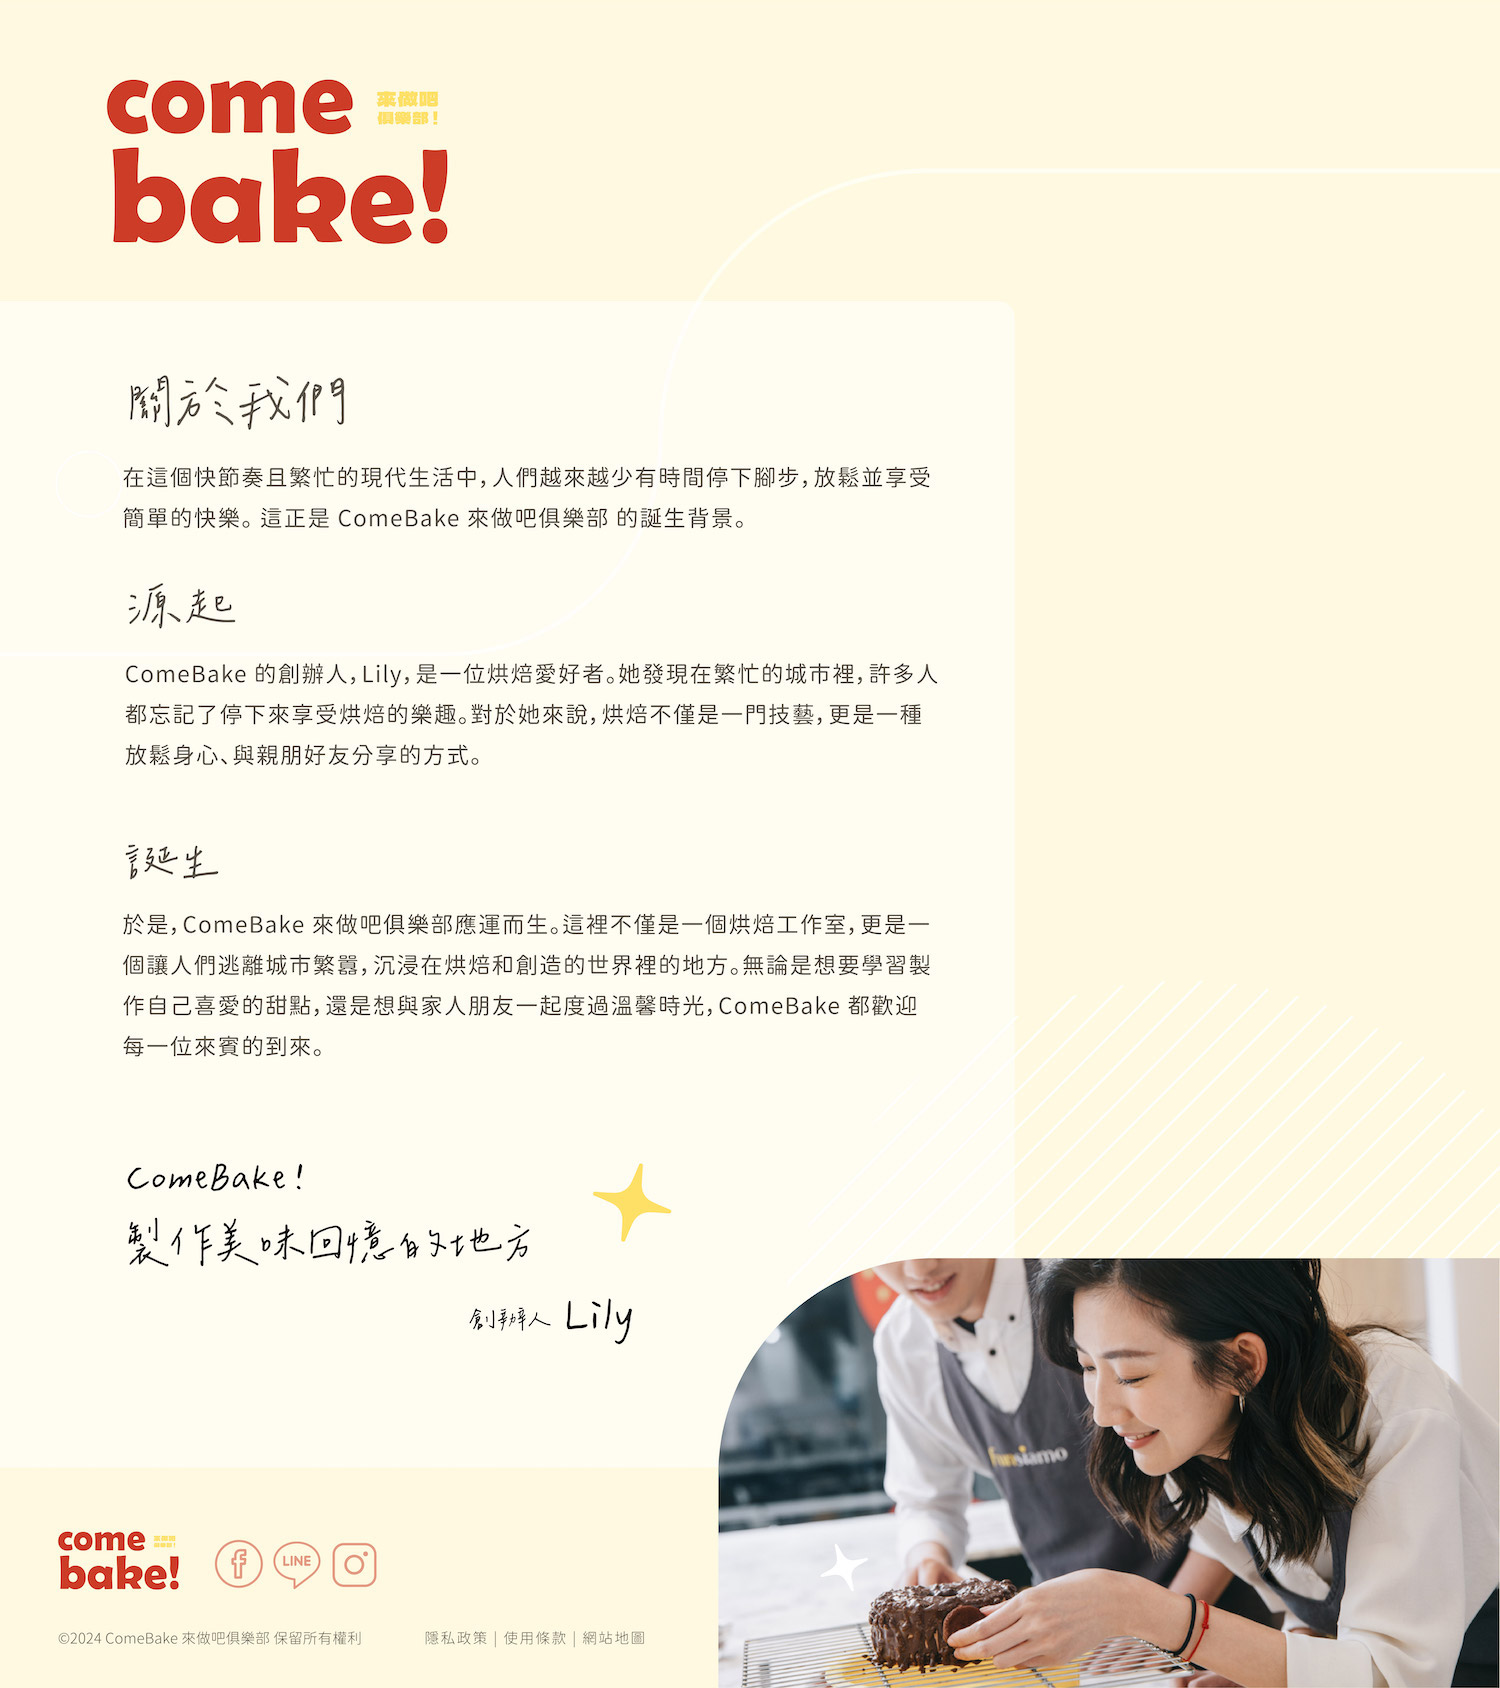
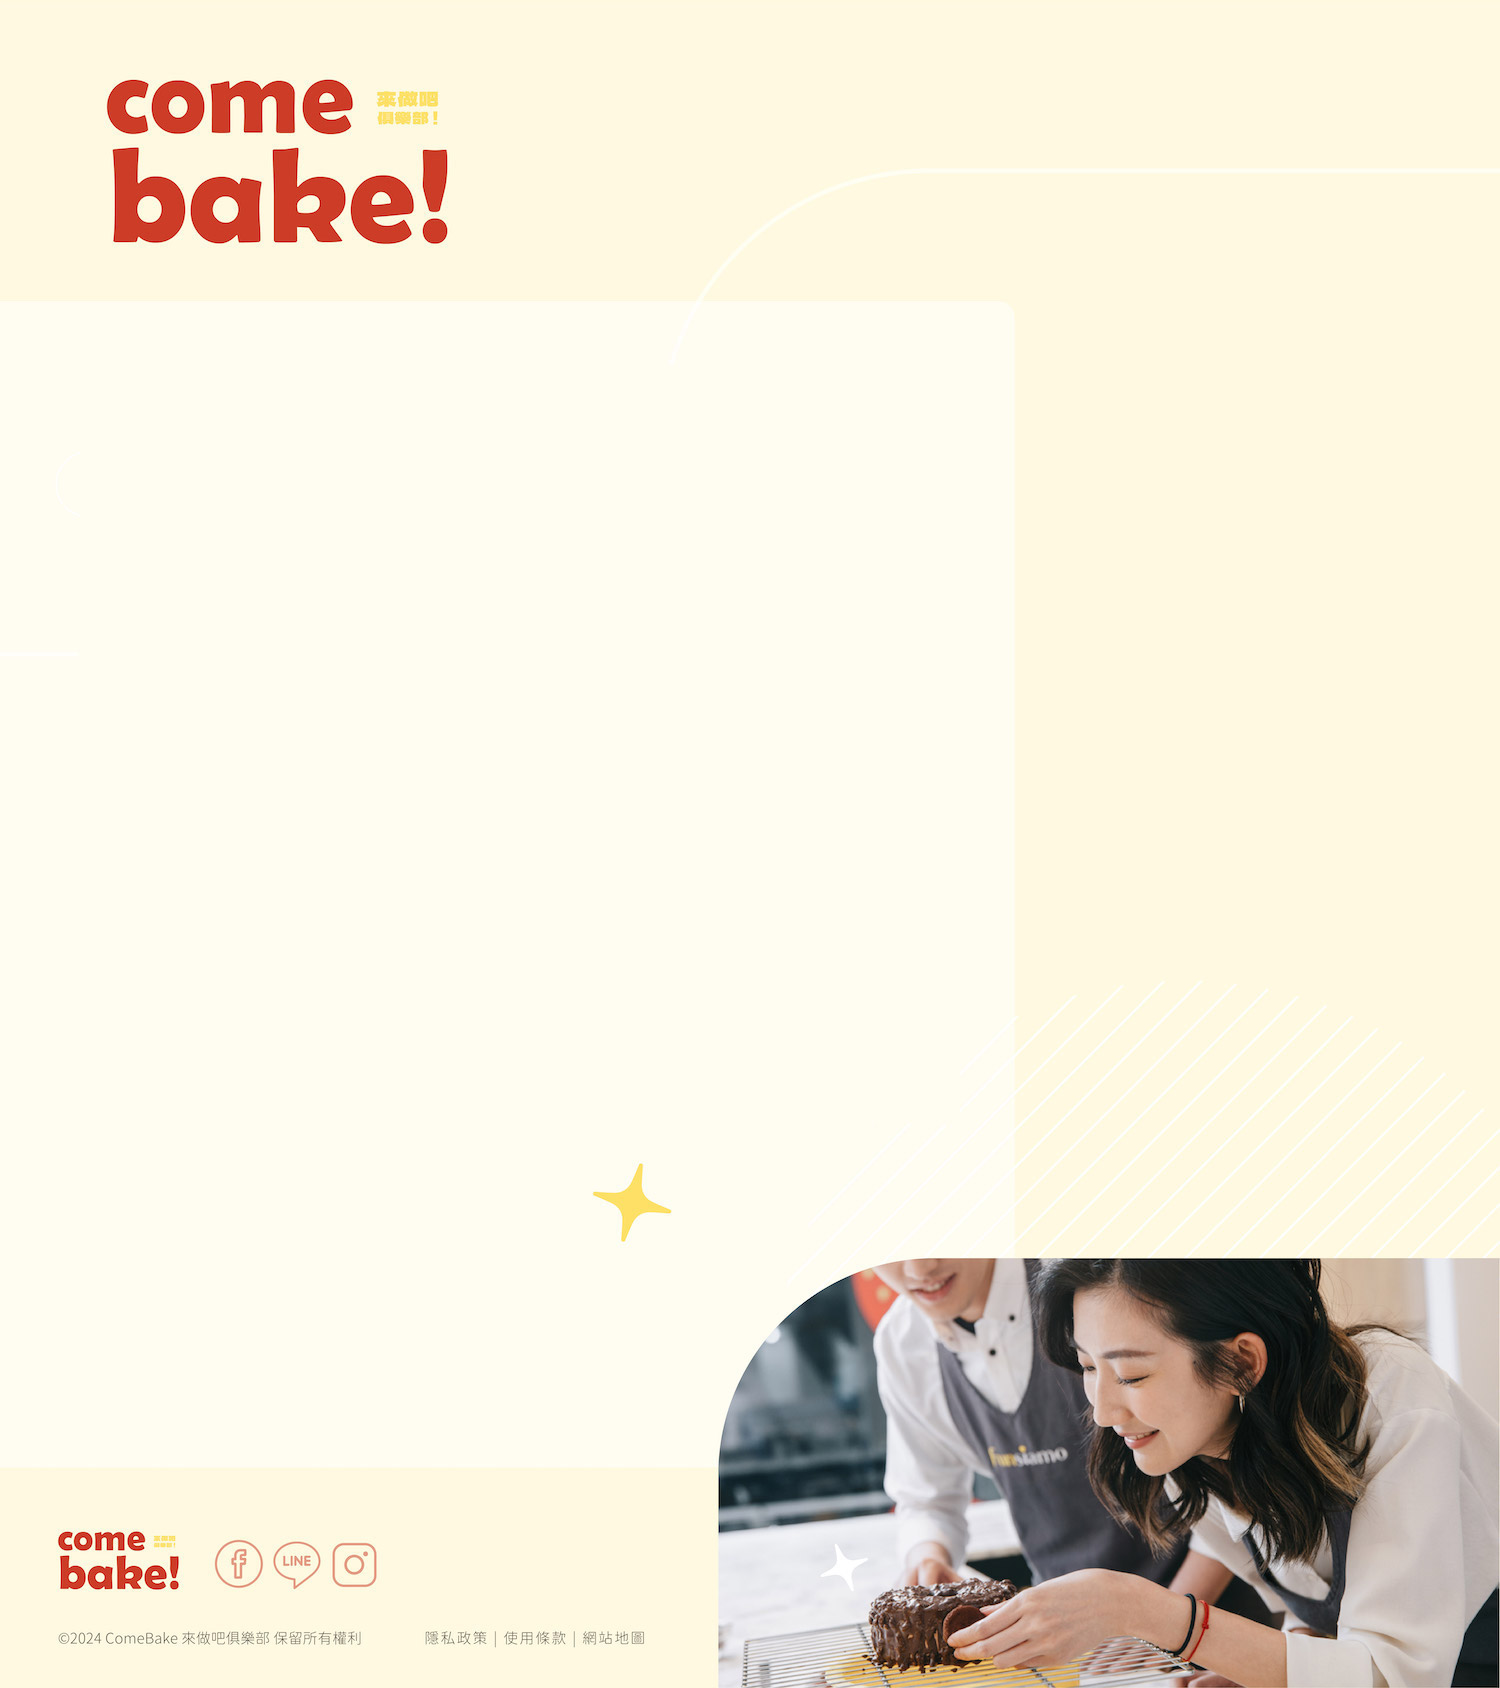
add transcript and the submit button

diff --git a/src/Pages/booking.js b/src/Pages/booking.js
@@ -1,7 +1,14 @@
 import { useParams } from "react-router-dom";
 import { useEffect, useState } from "react";
 import { Box, Flex, Text } from "@chakra-ui/layout";
-import { Select } from "@chakra-ui/react";
+import {
+  Select,
+  Image,
+  useDisclosure,
+  Alert,
+  AlertIcon,
+  CloseButton,
+} from "@chakra-ui/react";
 import { useFormik } from "formik";
 import {
   FormControl,
@@ -10,17 +17,19 @@ import {
   Input,
 } from "@chakra-ui/react";
 import booking_bg from "../Background/booking_bg.jpg";
+import register_button from "../Icons/register_button.png";
 import Tabs from "../Component/tabs";
 import styled from "@emotion/styled";
 export default function Booking() {
   const { kind } = useParams();
-  const [course, setCourse] = useState("還沒決定，想現場再看看");
+  const [course, setCourse] = useState("還沒決定，想現場再看看！");
+  const { isOpen, onClose, onOpen } = useDisclosure({ defaultIsOpen: false });
   const [courseOption, setCoureOption] = useState([
-    "檸檬塔",
-    "草莓蛋糕",
-    "草莓杯子蛋糕",
-    "泡芙",
-    "還沒決定，想現場再看看",
+    "檸檬塔課程",
+    "草莓蛋糕課程",
+    "草莓杯子蛋糕課程",
+    "小泡芙課程",
+    "還沒決定，想現場再看看！",
   ]);
   const validate = (values) => {
     const errors = {};
@@ -28,6 +37,11 @@ export default function Booking() {
       errors.email = "請輸入電子郵件地址";
     } else if (!/^[A-Z0-9._%+-]+@[A-Z0-9.-]+\.[A-Z]{2,}$/i.test(values.email)) {
       errors.email = "信箱格式錯誤";
+    }
+    if (!values.phone) {
+      errors.phone = "請輸入聯絡電話";
+    } else if (!/^09[0-9]{2}-[0-9]{3}-[0-9]{3}$/i.test(values.phone)) {
+      errors.phone = "電話格式錯誤";
     }
     return errors;
   };
@@ -38,12 +52,13 @@ export default function Booking() {
       email: "",
       people: 1,
       date: "",
-      time: "",
-      course: "",
+      time: "11:00-13:00",
+      course: kind,
     },
     validate,
     onSubmit: (values) => {
       console.log(values);
+      onOpen();
     },
   });
   useEffect(() => {
@@ -67,124 +82,124 @@ export default function Booking() {
         break;
     }
     setCourse(test);
+    temp.unshift(test);
     setCoureOption(temp);
   }, []);
   return (
     <Box bgImg={booking_bg} bgColor="#fff9e1" h="100vh" bgSize={"100% auto"}>
       <Tabs page="2" />
       <Box
-        w="50vw"
+        w="100vw"
         position="absolute"
         top="30vh"
         left="8vw"
         fontFamily="GenSenRounded"
       >
         <form onSubmit={formik.handleSubmit}>
-          <Flex mb="3vh">
-            <FormControl isRequired>
-              <Flex>
-                <CustomLabel>姓名:</CustomLabel>
-                <Input
-                  w="210px"
-                  name="name"
-                  placeholder="報名人姓名"
-                  onChange={formik.handleChange}
-                  value={formik.values.name}
-                />
-              </Flex>
-            </FormControl>
-            <FormControl isRequired>
-              <Flex>
-                <CustomLabel>聯絡電話:</CustomLabel>
-                <Input
-                  w="210px"
-                  name="phone"
-                  placeholder="報名人聯絡電話"
-                  onChange={formik.handleChange}
-                  value={formik.values.phone}
-                />
-              </Flex>
-            </FormControl>
-          </Flex>
-
-          <FormControl isRequired isInvalid={formik.errors.email} mb="3vh">
-            <Flex>
-              <CustomLabel>Email:</CustomLabel>
-              <Input
-                w="41vw"
-                name="email"
-                type="email"
-                placeholder="報名人電子郵件"
-                onChange={formik.handleChange}
-                value={formik.values.email}
-              />
-            </Flex>
-            <FormErrorMessage>{formik.errors.email}</FormErrorMessage>
-          </FormControl>
-          <FormControl isRequired>
+          <Box w="50vw">
             <Flex mb="3vh">
-              <CustomLabel>入場／陪同人數:</CustomLabel>
-              <Select
-                name="people"
-                placeholder="1"
-                w="230px"
-                onChange={formik.handleChange}
-              >
-                <option value={formik.values.people}>2</option>
-                <option value={formik.values.people}>3</option>
-                <option value={formik.values.people}>4</option>
-              </Select>
+              <FormControl isRequired>
+                <Flex>
+                  <CustomLabel>姓名:</CustomLabel>
+                  <Input
+                    w="210px"
+                    name="name"
+                    placeholder="報名人姓名"
+                    onChange={formik.handleChange}
+                    value={formik.values.name}
+                  />
+                </Flex>
+              </FormControl>
+              <FormControl isRequired isInvalid={formik.errors.phone}>
+                <Flex>
+                  <CustomLabel>聯絡電話:</CustomLabel>
+                  <Input
+                    w="210px"
+                    name="phone"
+                    placeholder="09xx-xxx-xxx"
+                    onChange={formik.handleChange}
+                    value={formik.values.phone}
+                  />
+                </Flex>
+                <FormErrorMessage>{formik.errors.phone}</FormErrorMessage>
+              </FormControl>
             </Flex>
-          </FormControl>
-          <Flex mb="3vh">
-            <FormControl isRequired>
+
+            <FormControl isRequired isInvalid={formik.errors.email} mb="3vh">
               <Flex>
-                <CustomLabel>日期:</CustomLabel>
+                <CustomLabel>Email:</CustomLabel>
                 <Input
-                  w="230px"
-                  name="date"
-                  type="date"
+                  w="41vw"
+                  name="email"
+                  type="email"
+                  placeholder="報名人電子郵件"
                   onChange={formik.handleChange}
-                  value={formik.values.date}
+                  value={formik.values.email}
                 />
               </Flex>
+              <FormErrorMessage>{formik.errors.email}</FormErrorMessage>
             </FormControl>
             <FormControl isRequired>
-              <Flex>
-                <CustomLabel>時段:</CustomLabel>
-                <Select
-                  name="time"
-                  placeholder="11:00-13:00"
-                  w="230px"
-                  onChange={formik.handleChange}
-                >
-                  <option value={formik.values.time}>15:00-17:00</option>
-                  <option value={formik.values.time}>19:00-21:00</option>
+              <Flex mb="3vh">
+                <CustomLabel>入場／陪同人數:</CustomLabel>
+                <Select name="people" w="230px" onChange={formik.handleChange}>
+                  <option value="1">1</option>
+                  <option value="2">2</option>
+                  <option value="3">3</option>
+                  <option value="4">4</option>
                 </Select>
               </Flex>
             </FormControl>
-          </Flex>
-
-          <FormControl isRequired>
-            <Flex mb="4vh">
-              <CustomLabel>選擇體驗課程:</CustomLabel>
-              <Select
-                name="course"
-                placeholder={course}
-                w="35vw"
-                onChange={formik.handleChange}
-              >
-                {courseOption &&
-                  courseOption.map((e, index) => (
-                    <option key={index} value={formik.values.course}>
-                      {e}
-                    </option>
-                  ))}
-              </Select>
+            <Flex mb="3vh">
+              <FormControl isRequired>
+                <Flex>
+                  <CustomLabel>日期:</CustomLabel>
+                  <Input
+                    w="230px"
+                    name="date"
+                    type="date"
+                    onChange={formik.handleChange}
+                    value={formik.values.date}
+                  />
+                </Flex>
+              </FormControl>
+              <FormControl isRequired>
+                <Flex>
+                  <CustomLabel>時段:</CustomLabel>
+                  <Select name="time" w="230px" onChange={formik.handleChange}>
+                    <option value="11:00-13:00">11:00-13:00</option>
+                    <option value="15:00-17:00">15:00-17:00</option>
+                    <option value="19:00-21:00">19:00-21:00</option>
+                  </Select>
+                </Flex>
+              </FormControl>
             </Flex>
-          </FormControl>
+
+            <FormControl isRequired>
+              <Flex mb="4vh">
+                <CustomLabel>選擇體驗課程:</CustomLabel>
+                <Select name="course" w="35vw" onChange={formik.handleChange}>
+                  {courseOption &&
+                    courseOption.map((e, index) => (
+                      <option key={index} value={e}>
+                        {e}
+                      </option>
+                    ))}
+                </Select>
+              </Flex>
+            </FormControl>
+          </Box>
+          <button type="submit">
+            <Image
+              position="absolute"
+              bottom="0.5vh"
+              right="30vw"
+              h="80px"
+              src={register_button}
+            />
+          </button>
         </form>
-        <Box>
+        <Box w="50vw">
           <Text color="#eaab99">
             在預約我們的烘焙課程前，請注意以下事項，以確保您的預約和參加過程順利愉快：
             <br />
@@ -200,6 +215,21 @@ export default function Booking() {
           </Text>
         </Box>
       </Box>
+      {isOpen && (
+        <Alert
+          status="success"
+          position="absolute"
+          top="15px"
+          left="calc(50% - 92px)"
+          w="180px"
+          h="56px"
+          borderRadius="4px"
+        >
+          <AlertIcon />
+          預約成功！
+          <CloseButton w="8px" h="8px" ml="16px" onClick={onClose} />
+        </Alert>
+      )}
     </Box>
   );
 }

diff --git a/src/Pages/introduction.js b/src/Pages/introduction.js
@@ -1,9 +1,20 @@
 import { Box } from "@chakra-ui/layout";
-import { Image, Link } from "@chakra-ui/react";
+import { Image, Link, Stack, Text, Flex } from "@chakra-ui/react";
 import introduction_bg from "../Background/introduction_bg.jpg";
 import Tabs from "../Component/tabs";
 import booking from "../Icons/booking_home.png";
+import { script } from "../Component/intro_script";
 export default function Introduction() {
+  const Display_script = (props) => (
+    <Stack mb="5vh">
+      <Text fontSize="55px" fontFamily="Chenyuluoyan">
+        {props.title}
+      </Text>
+      <Text fontSize="22px" lineHeight="1.7" fontFamily="GenSenRounded">
+        {props.detail}
+      </Text>
+    </Stack>
+  );
   return (
     <Box
       w="100vw"
@@ -26,7 +37,26 @@ export default function Introduction() {
           />
         </Link>
       </Box>
-
+      <Box position="absolute" top="42vh" left="7vw" width="55vw">
+        {script.map((e, index) => (
+          <Display_script key={index} title={e.title} detail={e.detail} />
+        ))}
+        <Stack mt="7vh" fontFamily="Chenyuluoyan">
+          <Text fontSize="45px">ComeBake！</Text>
+          <Text fontSize="50px">製作美味回憶的地方</Text>
+        </Stack>
+        <Flex
+          fontFamily="Chenyuluoyan"
+          align-items="center"
+          position="absolute"
+          left="25vw"
+        >
+          <Text fontSize="30px" mr="10px">
+            創辦人
+          </Text>
+          <Text fontSize="55px">Lily</Text>
+        </Flex>
+      </Box>
       {/* <Image src={footer_pic} zIndex="-1" position="sticky" bottom="0vh" /> */}
     </Box>
   );

diff --git a/src/Component/intro_script.js b/src/Component/intro_script.js
@@ -1,0 +1,20 @@
+export const script = [
+  {
+    title: "關於我們",
+    detail:
+      "在這個快節奏且繁忙的現代生活中，人們越來越少有時間停下腳步，放鬆並享受簡單的快樂。 這正是 ComeBake 來做吧俱樂部的誕生背景。",
+  },
+  {
+    title: "源起",
+    detail:
+      "ComeBake 的創辦人，Lily，是一位烘焙愛好者。她發現在繁忙的城市裡，許多人都忘記了停下來享受烘焙的樂趣。對於她來說，烘焙不僅是一門技藝，更是一種放鬆身心、與親朋好友分享的方式。 ",
+  },
+  {
+    title: "誕生",
+    detail:
+      "於是，ComeBake 來做吧俱樂部應運而生。這裡不僅是一個烘焙工作室，更是一個讓人們逃離城市繁囂，沉浸在烘焙和創造的世界裡的地方。無論是想要學習製作自己喜愛的甜點，還是想與家人朋友一起度過溫馨時光，ComeBake 都歡迎每一位來賓的到來。",
+  },
+];
+
+//   slogan: ["ComeBake！", "製作美味回憶的地方", "創辦人", "Lily"],
+// };
